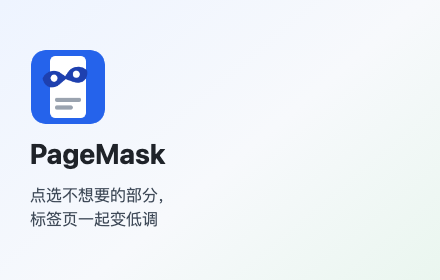
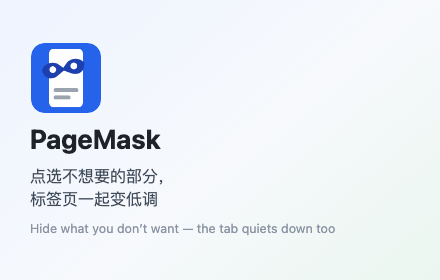
feat(store-assets): 宣传图块定位语改双语并新增 1400×560 marquee 图块
- 定位语双语（中文主行 + 英文辅助行更小更淡）：官方明示图块不可本地化、
  全球共用一张，主次式双语是商业产品面向多语言用户的通行做法（对等并排
  是政府类语言平权场景的做法）；中文为主延续既定的「中文用户为主」取舍；
  两张图块用同一套处理保持一致
- 新增 marquee-tile-1400x560：官方原句 "your extension can't be featured
  in marquee unless you provide a marquee promotional image"——不传这张
  永远不进 marquee 推荐位，故照传；同一套视觉的横版
- 材料 §0/§8、指南 §0.2/§2.2/§2.3/§4.1、e2e.md 同步
- 两张图块目检通过；check:docs 通过

Changed region(s): [[0.0591, 0.1429, 0.7682, 0.8571]]

diff --git a/docs/CHROMEWEBSTORE.md b/docs/CHROMEWEBSTORE.md
@@ -10,7 +10,7 @@
 - [x] **仓库已公开**（`cherishfall/page-mask` 已核实为 Public，匿名访问可打开）；**隐私政策 URL 已由 GitHub Pages 承载并点验 200**：<https://cherishfall.github.io/page-mask/privacy.html>（CWS 对死链自动拒审，#193）——两条路径都通，审核员无需登录即可打开
 - [x] `npm run build && npm run zip && npm run check:package` 通过（`check-package` 校验产物 manifest 没有 `content_scripts` / `host_permissions`、图标齐全、多语言键一致）；产物：`.output/page-mask-1.0.11-chrome.zip`
 - [x] 版本号已改（`package.json` → `1.0.11`），`CHANGELOG.md` 有对应版本的双语条目，tag `v1.0.11` 已打、Release 已发
-- [x] 6 张截图与宣传图块已按 §8 用修通的 `store-shots.mjs` 重生成（0.9.5，#190/#191：站点设置页合卡、ⓘ 贴开关、文字入口下划线等新形态已入图；虚构域名 `acme-journal.test` 映射本地，无 127.0.0.1）；1.0.0 发版重跑逐字节一致；1.0.1 发版用 1.0.1 构建重拍入库（与提交包同源；肉眼与 1.0.0 零差，字节差为渲染环境反锯齿级别，已人工抽比确认）；1.0.5/1.0.6 无界面视觉变化，沿用 1.0.4 的截图；1.0.7 截图 5 有内容变化（列表页提示文案、设置页「关于」卡数据说明行、默认标题脚注收短）按 1.0.7 构建重拍入库，其余五张无内容变化沿用；1.0.8 无界面变化（后台与消息顺序），沿用；1.0.10 截图 4 有内容变化（面具卡内改为配置摘要、悬浮按钮开关改「显示悬浮按钮」）按 1.0.10 构建重拍入库，其余五张无内容变化沿用（字节差为渲染环境反锯齿级别）；1.0.11 无界面视觉变化（只改两处提示的触发时机与首次引导要点），六张全部沿用 1.0.10；2026-11-19 提审准备：截图按语言分目录重拍——`zh/` 与 `en/` 各 6 张（英文套图新增，界面语言由脚本写 `settings.uiLanguage` 钉死，演示数据与拼版说明字也按语言各成一套），并修正截图 6 拼版说明的过时叫法（胶囊上那颗钮实名「整页变灰」，旧图写「媒体开关在『媒体』钮上」是 0.8.x 旧称）；与上一版图肉眼零差，字节差为渲染环境反锯齿级别
+- [x] 6 张截图与宣传图块已按 §8 用修通的 `store-shots.mjs` 重生成（0.9.5，#190/#191：站点设置页合卡、ⓘ 贴开关、文字入口下划线等新形态已入图；虚构域名 `acme-journal.test` 映射本地，无 127.0.0.1）；1.0.0 发版重跑逐字节一致；1.0.1 发版用 1.0.1 构建重拍入库（与提交包同源；肉眼与 1.0.0 零差，字节差为渲染环境反锯齿级别，已人工抽比确认）；1.0.5/1.0.6 无界面视觉变化，沿用 1.0.4 的截图；1.0.7 截图 5 有内容变化（列表页提示文案、设置页「关于」卡数据说明行、默认标题脚注收短）按 1.0.7 构建重拍入库，其余五张无内容变化沿用；1.0.8 无界面变化（后台与消息顺序），沿用；1.0.10 截图 4 有内容变化（面具卡内改为配置摘要、悬浮按钮开关改「显示悬浮按钮」）按 1.0.10 构建重拍入库，其余五张无内容变化沿用（字节差为渲染环境反锯齿级别）；1.0.11 无界面视觉变化（只改两处提示的触发时机与首次引导要点），六张全部沿用 1.0.10；2026-11-19 提审准备：截图按语言分目录重拍——`zh/` 与 `en/` 各 6 张（英文套图新增，界面语言由脚本写 `settings.uiLanguage` 钉死，演示数据与拼版说明字也按语言各成一套），并修正截图 6 拼版说明的过时叫法（胶囊上那颗钮实名「整页变灰」，旧图写「媒体开关在『媒体』钮上」是 0.8.x 旧称）；与上一版图肉眼零差，字节差为渲染环境反锯齿级别；同日宣传图块定位语改双语（中文主行 + 英文辅助行——图块不可本地化，主次式双语覆盖两类用户）并新增 1400×560 marquee 图块（官方：无此图不进 marquee 推荐位）
 - [ ] 快捷键真机复核：卸载重装后在 `chrome://extensions/shortcuts` 确认两条命令都有键；在那一页改一次键，切回插件设置页与欢迎页确认键帽跟着变（浏览器级按键自动化触发不了，只能人工）
 - [x] §6 的测试步骤在真实 Chrome 上重走一遍（弹窗四块卡与两颗编辑入口「标题和图标」「收起内容」、按设置 / 原样、全部网站设置、允许访问；胶囊「整页变灰」钮与「遮住」钮；变灰开关在弹窗、站点设置页两处互通）——1.0.2 走查回填见 §6 末尾：可自动化部分（harness 八步 + 真机三站 + 既有断言）已过；授权气泡 / 改键 / 小喇叭 / 视频观感四项提交时人工顺手核
 - [ ] 隐私表单按 §5 填写（在控制台操作）
@@ -247,7 +247,7 @@ Test steps (no login needed):
 
 ## 8. 截图与素材清单
 
-商店要求（官方现行口径，2026-11-15 复核官方原文）：截图 1280×800，**至少 1 张、最多 5 张**；**只有商店图标与至少 1 张截图是必传**（官方原句 "Only the store icon and at least one screenshot are mandatory"），440×280 小宣传图块与 1400×560 marquee 均为可选——宣传图块照传：官方明示不传的扩展在推荐位排在有图的后面。
+商店要求（官方现行口径，2026-11-15 复核官方原文）：截图 1280×800，**至少 1 张、最多 5 张**；**只有商店图标与至少 1 张截图是必传**（官方原句 "Only the store icon and at least one screenshot are mandatory"），440×280 小宣传图块与 1400×560 marquee 均为可选——两张都传：小图块官方明示不传的扩展在推荐位排在有图的后面；marquee 是硬门槛，官方原句 "your extension can't be featured in marquee unless you provide a marquee promotional image"，不传这张就永远不进 marquee 推荐位（2026-11-19 已补做）。
 
 **截图按语言分目录（2026-11-19 起）**：控制台把截图分成「以当地语言显示的屏幕截图」与「全球通用的屏幕截图」两组，官方回退顺序为「当地语言截图 → 全球通用截图」（"Order of graphic assets: … Any localized screenshots that you provide. … Global screenshots."）——某种语言没有自己的截图时才显示全球通用那份。PageMask 的商店 listing 有 English（默认）与中文（简体）两个语言，两套各自成图、各传到当地语言槽位：
 
@@ -268,7 +268,8 @@ Test steps (no login needed):
 | 截图 4 | `screenshot-4-popup.png` | ✅ 1280×800：弹窗（面具卡：面具图标 + 按你的设置显示开关 + 开关下方的配置摘要 + 标题和图标 / 收起内容；整页变灰卡；遮住这一页；显示悬浮按钮行；底部两个入口），顶部站点名是虚构域名 acme-journal.test（`store-shots.mjs` 已修通：`--host-resolver-rules` 把虚构域名映射到本地 fixture，#190 起截图不再出现 127.0.0.1）。1.0.10 重拍（配置摘要入图） |
 | 截图 5 | `screenshot-5-management.png` | ✅ 1280×800：「全部网站设置」（网站列表）与「插件设置」两个独立页面并排 |
 | 截图 6 | `screenshot-6-curtain.png` | ✅ 1280×800：「⋯」菜单 + 遮住整页后的睁眼恢复按钮（悬停显出「恢复」/ "Restore"）。2026-11-19 修正拼版说明：胶囊上那颗钮实名「整页变灰」/ whole-page-gray，旧图写的「媒体开关在『媒体』钮上」是 0.8.x 旧称 |
-| 宣传图块 440×280 | `docs/store-assets/promo-tile-440x280.png`（根目录） | ✅ 新图标 + 一句话定位，无 emoji；**不可本地化**（官方明示 small promo tile 与 marquee 不随语言切换），在「全球通用」区上传，全球共用这一张 |
+| 小型宣传图块 440×280 | `docs/store-assets/promo-tile-440x280.png`（根目录） | ✅ 新图标 + 双语定位语（中文主行、英文辅助行），无 emoji；**不可本地化**（官方明示 small promo tile 与 marquee 不随语言切换），在「全球通用」区上传，全球共用这一张 |
+| 顶部宣传图块 1400×560 | `docs/store-assets/marquee-tile-1400x560.png`（根目录） | ✅ 同一套视觉的横版（图标 + 名称 + 双语定位语）；官方明示不传这张就不进 marquee 推荐位，故照传 |
 
 重新生成：`npm run build` 后按语言各跑一遍（约每轮 1 分钟）：`CHROME_ARGS="--no-sandbox --disable-gpu" STORE_SHOTS_LOCALE=zh node tests/e2e/store-shots.mjs`，再 `STORE_SHOTS_LOCALE=en` 跑一遍（输出 `docs/store-assets/<locale>/`；宣传图块不可本地化、只在 zh 轮生成并写到 store-assets 根目录；可先用 `STORE_SHOTS_OUT=<目录>` 输出到别处目检一遍再覆盖）。脚本把虚构站点 acme-journal.test 经 `--host-resolver-rules` 映射到本地 fixture，并加 `--no-proxy-server`——系统代理会把映射不到的虚构域名拦下（#190；.dev 整个 TLD 在 Chrome 的 HSTS 预载表里会被强制升 https，所以主 fixture 用 RFC 6761 保留 TLD `.test`）。
 
@@ -278,7 +279,7 @@ Test steps (no login needed):
 - 「之前 / 之后」、popup、两个管理页与「菜单 + 幕布」都是拼版：每一块都来自上面的真实截图或扩展自己的图标资源，没有画假界面。
 - 标签栏那张的浏览器边框是拼版出来的示意（headless 截不到真实标签栏），但标题文字与图标就是扩展在该页面上实际设置的值（中文套图标题「阅读」、英文套图 "Reading"；透明图标）。
 - 尺寸全部 1280×800（PNG）；宣传图块 440×280。
-- 宣传图块不可本地化（官方明示 small promo tile 与 marquee 不随商店语言切换）：图上的定位语是中文，英文用户看到的也是这一张——有意以中文用户为主，不是疏漏。
+- 宣传图块不可本地化（官方明示 small promo tile 与 marquee 不随商店语言切换）：定位语用双语——中文为主行、英文为辅助行（更小更淡），两类用户都能读到，中文仍为主；对等并排的双语是政府类语言平权场景的做法（加拿大、威尔士），商业产品面向多语言用户通行的是主次式。
 
 ## 9. 已知限制（写给审核员，也写给用户）
 

diff --git a/docs/store-submission-guide.md b/docs/store-submission-guide.md
@@ -39,7 +39,7 @@ unzip -p .output/page-mask-1.0.11-chrome.zip manifest.json
 - [x] 隐私表单填法（材料 §5）
 - [x] 审核员备注与八步测试步骤（材料 §6）
 - [x] 版本历史表（材料 §7）
-- [x] 截图中英两套（`zh/` 与 `en/` 各 6 张、各 1280×800）+ 宣传图块 440×280（不可本地化，仅一份）+ 商店图标 128×128（材料 §8）
+- [x] 截图中英两套（`zh/` 与 `en/` 各 6 张、各 1280×800）+ 全局宣传图块两份（440×280 小图块 + 1400×560 marquee，双语定位语，均不可本地化仅一份）+ 商店图标 128×128（材料 §8）
 - [x] `cherishfall/page-mask` 仓库**已经是公开仓库**（已核实为 Public，匿名浏览器可打开仓库页与 `docs/PRIVACY.md`）
 - [x] `docs/PRIVACY.md` 存在，且英文在前中文在后，与商店披露口径一致（`docs/CHROMEWEBSTORE.md` §5 引用它）
 - [x] 隐私政策已由 GitHub Pages 承载并发布：<https://cherishfall.github.io/page-mask/privacy.html>（已点验 200，与 `docs/PRIVACY.md` 逐条等义）——两条路径都通，审核员无需登录
@@ -228,7 +228,7 @@ PageMask 已经有 GitHub Pages 域名 `cherishfall.github.io`，Pages 已开启
 | **Language**（商店页语言） | Store listing | 简体中文 + English | 材料 §1 | §2.3 |
 | **Store icon**（图标） | Store listing | 128×128 PNG：`public/icon/128.png` | 材料 §8 | §2.3 |
 | **Screenshots**（截图） | Store listing | 两组槽位：语言切到 English 传 `en/` 那套、切到中文（简体）传 `zh/` 那套（各 1 / 2 / 4 / 5 / 6，每张 1280×800）；「全球通用的屏幕截图」留空 | 材料 §8 | §2.3 |
-| **Small promo tile**（宣传图块） | Store listing | 440×280 PNG：`docs/store-assets/promo-tile-440x280.png`（Marquee 1400×560 可选，没素材） | 材料 §8 | §2.3 |
+| **Small promo tile**（小型宣传图块） | Store listing | 440×280 PNG：`docs/store-assets/promo-tile-440x280.png`；Marquee 1400×560 一并传：`docs/store-assets/marquee-tile-1400x560.png` | 材料 §8 | §2.3 |
 | **Homepage URL** | Store listing | `https://github.com/cherishfall/page-mask` | 材料 §1 | §2.3 |
 | **Support URL** | Store listing | `https://github.com/cherishfall/page-mask/issues` | 材料 §1 | §2.3 |
 | **Content rating**（内容分级） | Store listing | 不勾 Mature | 材料 §11 | §2.3 |
@@ -254,8 +254,8 @@ PageMask 已经有 GitHub Pages 域名 `cherishfall.github.io`，Pages 已开启
 | **Language**（商店页语言） | 简体中文 + English | 材料 §1 | 与 manifest 的 `_locales` 一致 |
 | **Store icon** | 128×128 PNG：`public/icon/128.png`（与 `docs/store-assets/icon-128.png` 同一张） | 材料 §8 | 官方要求 **128×128 px** |
 | **Screenshots**（以当地语言显示的屏幕截图） | 语言切到 **English** → 传 `docs/store-assets/en/` 的 **1 / 2 / 4 / 5 / 6**（首图、向导、弹窗、两个管理页、菜单+幕布）；切到 **中文（简体）** → 传 `docs/store-assets/zh/` 的同一批号。每张 **1280×800 px**；每组最多 5 张。「全球通用的屏幕截图」**留空**——官方取图顺序是「当地语言截图 → 全球通用截图」（官方文档 "Order of graphic assets"），两个语言都有自己的截图时全球通用那份永不显示 | 材料 §8 | 官方原文："At least one 1280x800 px screenshot, up to 5 total." |
-| **Small promo tile**（可选） | `docs/store-assets/promo-tile-440x280.png`，**440×280**，PNG/JPEG | 材料 §8 | 官方尺寸 440×280 px |
-| **Marquee promo tile**（可选） | 没有素材，跳过 | — | 官方尺寸 1400×560 px |
+| **Small promo tile**（可选但建议传） | `docs/store-assets/promo-tile-440x280.png`，**440×280**，PNG/JPEG；官方明示不传的扩展在推荐位排在有图的后面 | 材料 §8 | 官方尺寸 440×280 px |
+| **Marquee promo tile**（可选但建议传） | `docs/store-assets/marquee-tile-1400x560.png`，**1400×560**，PNG/JPEG；官方原句 "your extension can't be featured in marquee unless you provide a marquee promotional image"——不传就永远不进 marquee 推荐位 | 材料 §8 | 官方尺寸 1400×560 px |
 | **Promo video**（可选） | 没有视频，跳过 | — | YouTube 链接 |
 | **Homepage URL** | `https://github.com/cherishfall/page-mask` | 材料 §1 | 仓库已公开，能打开 |
 | **Support URL** | `https://github.com/cherishfall/page-mask/issues` | 材料 §1 | 无痕窗口能打开 |
@@ -417,7 +417,7 @@ PageMask 不需要登录、不需要付费账号，所以**硬性凭据这一项
 - [ ] `manifest.json` 在 zip 根目录；无 `.map`、无 README/CHANGELOG/CHROMEWEBSTORE.md、无测试与配置文件（`npm run check:package` 会验）
 - [ ] manifest 里 `permissions` = `storage`/`scripting`/`activeTab`，`optional_host_permissions` = `["*://*/*"]`，**没有** `content_scripts`、**没有** `host_permissions`
 - [ ] 名称/简介与 `_locales` 一致：en 40/125 字符、zh_CN 22/54 字符（≤45 / ≤132）
-- [ ] 截图两套各传 5 张（1/2/4/5/6；`en/` → English、`zh/` → 中文（简体）），每张 1280×800；「全球通用的屏幕截图」留空；宣传图块 440×280；图标 128×128
+- [ ] 截图两套各传 5 张（1/2/4/5/6；`en/` → English、`zh/` → 中文（简体）），每张 1280×800；「全球通用的屏幕截图」留空；宣传图块两份（440×280 小图块 + 1400×560 marquee，都在「全球通用」区）；图标 128×128
 - [ ] **隐私政策 URL（<https://cherishfall.github.io/page-mask/privacy.html>）用无登录浏览器能打开**，且页面里确实有「收集什么、怎么用、怎么共享」的说明
 - [ ] Support URL（`.../issues`）与 Homepage URL 无痕能打开
 - [ ] 材料 §3 四段权限理由、材料 §4 单一用途、材料 §5 两组勾选、材料 §6 八步测试说明，都已贴进对应标签页

diff --git a/docs/dev/e2e.md b/docs/dev/e2e.md
@@ -27,7 +27,7 @@ npm run test:e2e            # = wxt build && node tests/e2e/run-e2e.mjs，约 45
 | `check-editor.mjs` | 编辑面板（#24：popup 入口、重选替换、开关不被覆盖、逐行校验、删除撤销） | 约 10 秒 |
 | `check-toggle.mjs` | 悬浮按钮与无障碍（#25：菜单不出屏/翻转/Esc/点外关闭、无右键菜单、Tab+回车、拖动贴边、三底色对比度、对话框在超高浮层之上） | 约 10 秒 |
 
-截图写到 `test-results/e2e/`（已忽略）。其他脚本不进 `test:e2e`：`check-i18n.mjs`、`check-dark-mode.mjs`、`run-e2e-real.mjs`（真实网站，输出 `test-results/real/`）、`store-shots.mjs`（生成商店素材，`STORE_SHOTS_LOCALE=zh|en` 分语言各跑一遍、写 `docs/store-assets/<locale>/`；宣传图块不可本地化、仅 zh 轮生成写到 store-assets 根目录；见 CHROMEWEBSTORE.md §8）、`landing-shots.mjs`（生成落地页截图 4 张 × 中英两套：原样 / 收起 4 项 / 收起 + 整页变灰 / 点选界面，写 `docs/store-assets/landing/<lang>/`，再复制到落地页仓库 `page-mask/screens/<lang>/`；界面改动后重跑：`npm run build && CHROME_ARGS="--no-sandbox --disable-gpu" node tests/e2e/landing-shots.mjs`）。
+截图写到 `test-results/e2e/`（已忽略）。其他脚本不进 `test:e2e`：`check-i18n.mjs`、`check-dark-mode.mjs`、`run-e2e-real.mjs`（真实网站，输出 `test-results/real/`）、`store-shots.mjs`（生成商店素材，`STORE_SHOTS_LOCALE=zh|en` 分语言各跑一遍、写 `docs/store-assets/<locale>/`；两张全局宣传图块（440×280 + 1400×560 marquee）不可本地化、仅 zh 轮生成写到 store-assets 根目录；见 CHROMEWEBSTORE.md §8）、`landing-shots.mjs`（生成落地页截图 4 张 × 中英两套：原样 / 收起 4 项 / 收起 + 整页变灰 / 点选界面，写 `docs/store-assets/landing/<lang>/`，再复制到落地页仓库 `page-mask/screens/<lang>/`；界面改动后重跑：`npm run build && CHROME_ARGS="--no-sandbox --disable-gpu" node tests/e2e/landing-shots.mjs`）。
 
 ## 工具函数（`tests/e2e/lib/`）
 
